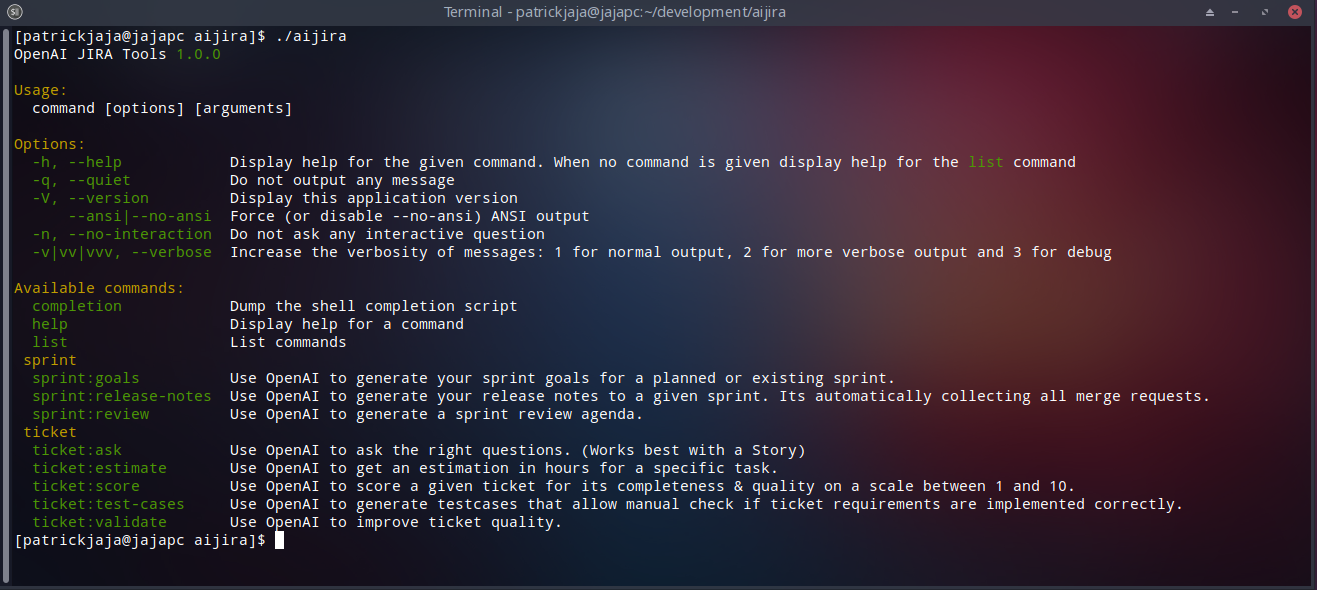
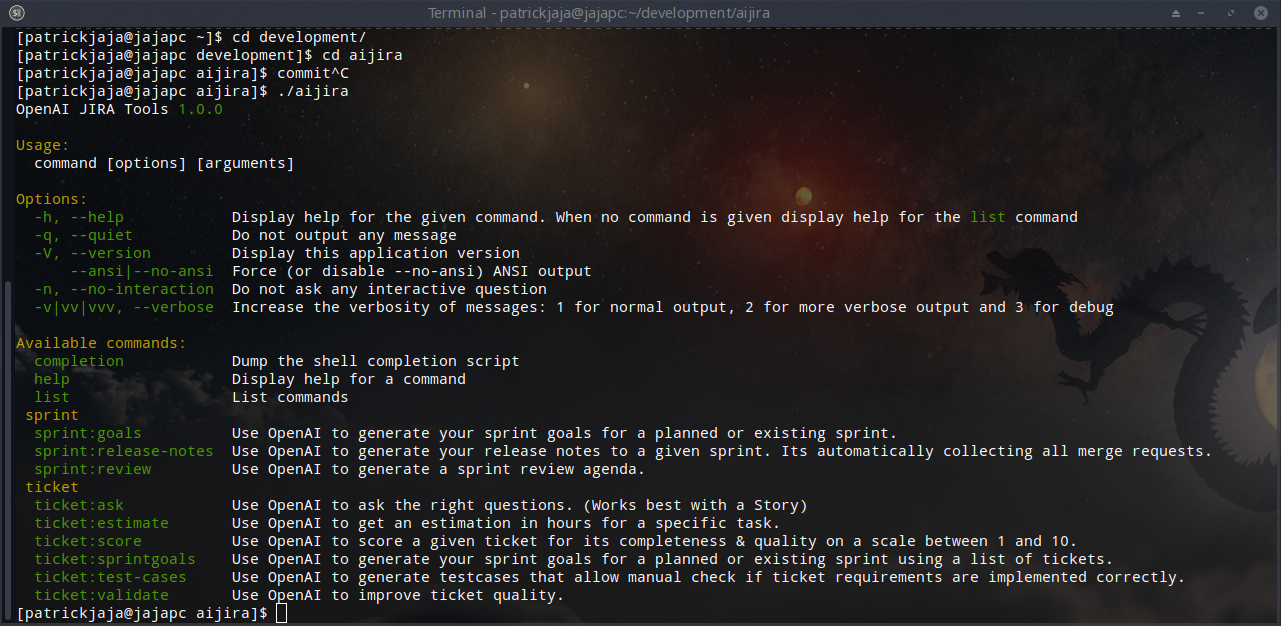
no-task Added a new CLI command ticket:sprintgoals to generate sprint goals using a list of JIRA tickets.

diff --git a/README.md b/README.md
@@ -31,9 +31,11 @@ The following env parameters need to be configured, depending on the CLI command
 ### Use OpenAI to generate your sprint goals for a planned or existing sprint.
 ```bash
 > aijira sprint:goals "<SPRINT-NAME>"
+> aijira ticket:sprintgoals "<Ticket1>,<Ticket2>,<Ticket3>"
 ```
 
 ![2023-06-21_1.png](assets/2023-06-21_1.png)
+![2023-06-21_5.png](assets%2F2023-06-21_5.png)
 
 ### Use OpenAI to generate a sprint review agenda.
 ```bash
